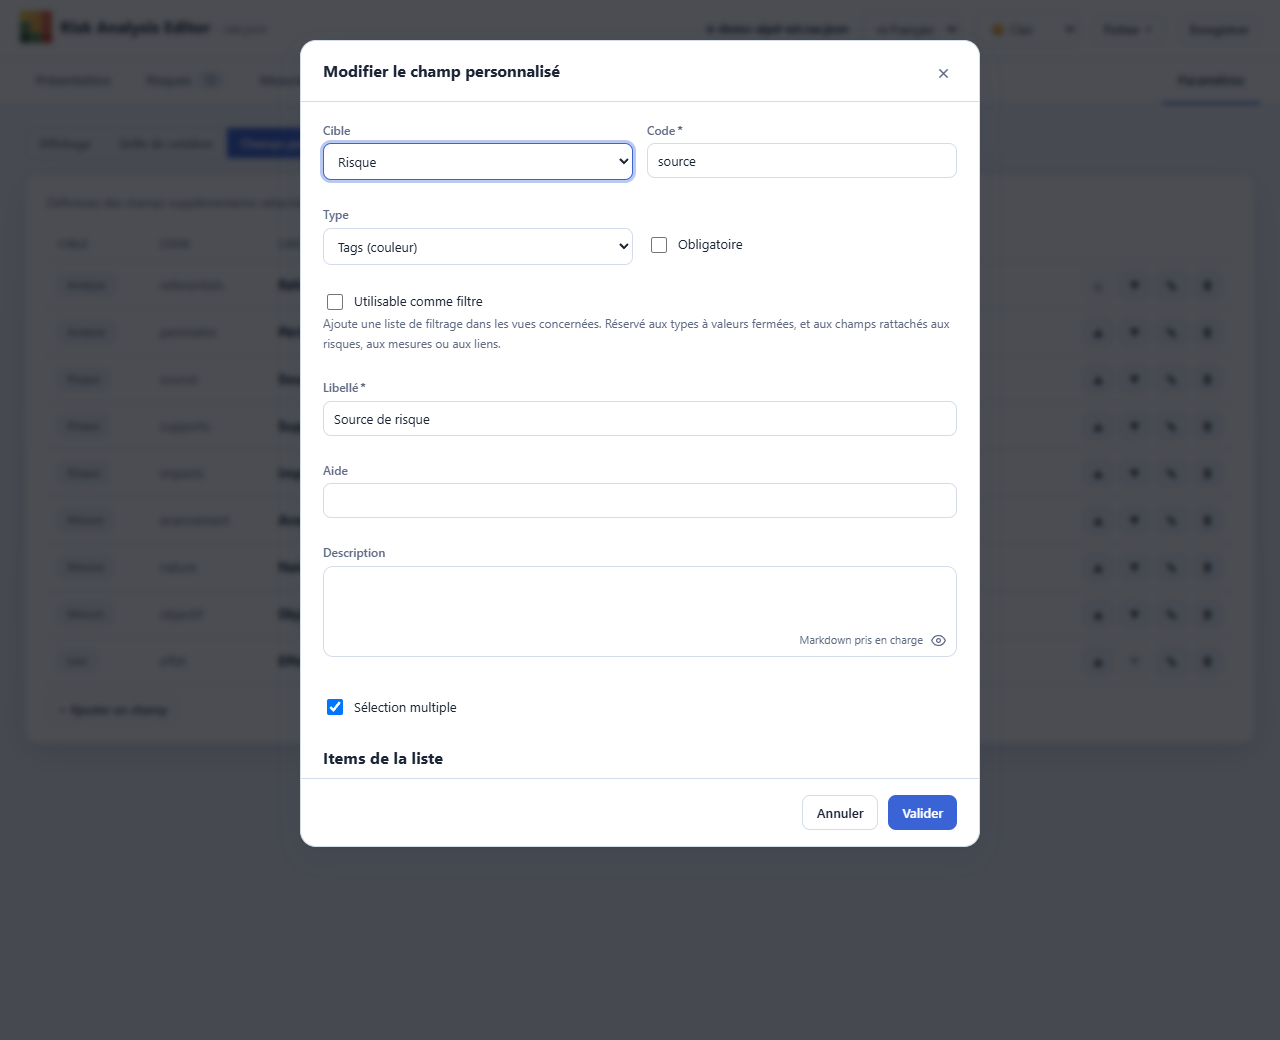
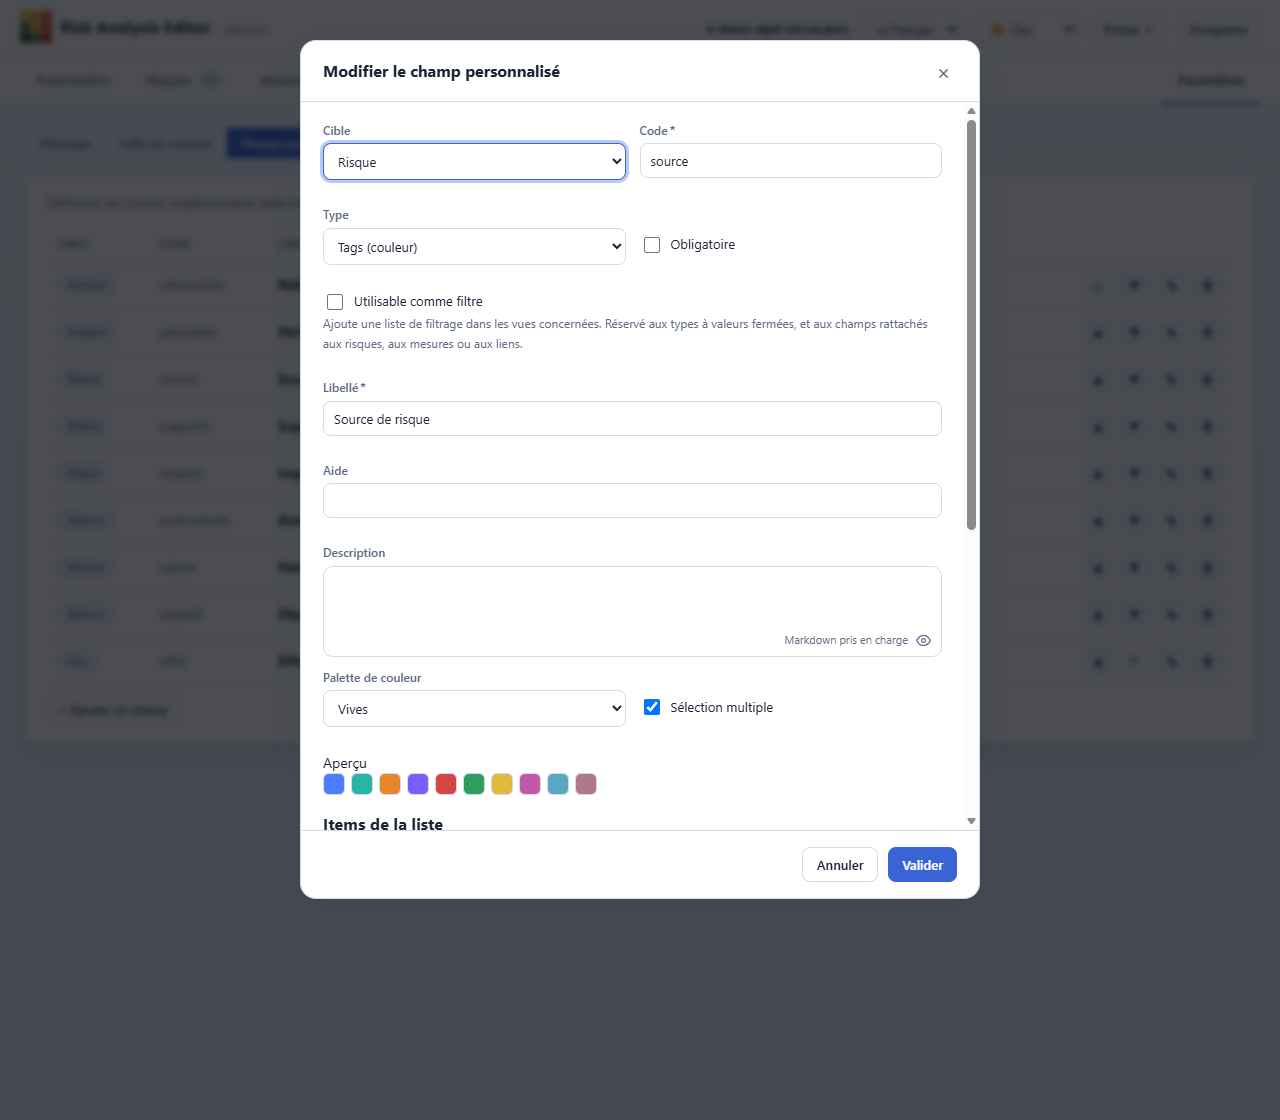
chore(release): version 1.16.0 (palettes de tags : guide + capture)

diff --git a/app/risk-analysis-editor.html b/app/risk-analysis-editor.html
@@ -2,7 +2,7 @@
   ============================================================================
   Risk Analysis Editor — éditeur de matrices de risque (format .rae.json)
   ----------------------------------------------------------------------------
-  Version  : 1.15.0
+  Version  : 1.16.0
   Auteur   : Stéphane Vinter
   Licence  : MIT — © 2026 Stéphane Vinter (voir LICENSE)
   GitHub   : https://github.com/StephaneV/Risk-Analysis-Editor
@@ -9340,7 +9340,7 @@ function confirmModal(message,onYes,opts){
 }
 document.addEventListener("keydown",e=>{if(e.key==="Escape"&&dynModals.length)dynModals[dynModals.length-1].close();});
 /* ---------- À propos ---------- */
-const APP_VERSION="1.15.0", APP_AUTHOR="Stéphane Vinter", APP_LICENSE="MIT";
+const APP_VERSION="1.16.0", APP_AUTHOR="Stéphane Vinter", APP_LICENSE="MIT";
 const GITHUB_URL="https://github.com/StephaneV/Risk-Analysis-Editor";
 const SITE_URL="https://www.risk-analysis-editor.com/";
 /* Logo inline (autonome, hors-ligne) : mini-matrice de risque 3×3. Source : docs/images/RAE-logo-mini.svg */

diff --git a/docs/guide-utilisateur.md b/docs/guide-utilisateur.md
@@ -335,6 +335,8 @@ Chaque champ possède :
 
 ![Éditeur d'un champ personnalisé](images/guide-06-champ-editeur.png)
 
+Pour un champ **tags colorés**, une **palette de couleur** prédéfinie colore automatiquement les valeurs, dans l'ordre : palettes *qualitatives* (Vives, Pastel, Office, adaptée aux daltoniens, Chaudes, Froides) ou *séquentielles* (Nuances de gris, Bleu → Vert, Jaune → Orange, Rouge → Violet). Au-delà du nombre de couleurs de la palette, celle-ci se répète avec une légère **nuance de luminosité** pour garder des teintes distinctes. Chaque couleur reste **modifiable** individuellement, et l'option **Personnalisée** laisse fixer chaque valeur à la main.
+
 Les **valeurs** des champs se saisissent ensuite dans les fiches (risque, mesure, lien) et, pour les champs d'analyse, dans l'onglet *Présentation*. Elles sont reprises dans le **rapport**, l'**import/export CSV** et les **exports Word/Excel**, et peuvent devenir des **colonnes** dans les registres.
 
 Pour les listes (**liste déroulante**, **liste à cocher**, **tags**), chaque **valeur** peut recevoir une **description** (saisie sous la valeur dans l'éditeur). Ces descriptions s'affichent en **infobulle** au survol des **tags** (dans les fiches comme dans les registres) et alimentent une section **« Référentiels et légendes des champs »** du rapport : un tableau *valeur → description* pour chaque champ concerné, utile pour documenter le vocabulaire de la méthode (sources de risque, événements redoutés, types de menace…). Dans *Paramètres › Rapport*, la sous-liste **« Éléments »** de cette section permet de **choisir et d'ordonner** les champs à y inclure. Les modèles et les démonstrations fournis en sont déjà pourvus.
@@ -468,4 +470,4 @@ C'est attendu : le score et la criticité sont **recalculés** à partir de la g
 
 ---
 
-*Ce guide correspond à Risk Analysis Editor version 1.15.0. Les captures illustrent l'analyse de démonstration fictive `examples/demo-aipd-sst.rae.json`.*
+*Ce guide correspond à Risk Analysis Editor version 1.16.0. Les captures illustrent l'analyse de démonstration fictive `examples/demo-aipd-sst.rae.json`.*
